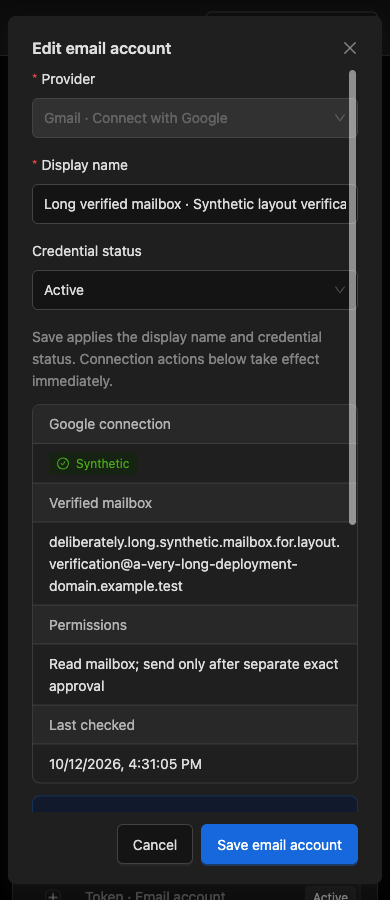
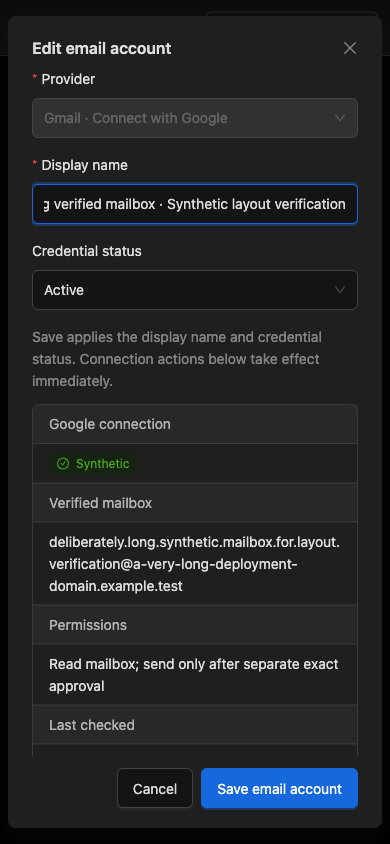
Record Gmail OAuth acceptance and responsive evidence

diff --git a/docs/reports/gmail-oauth-verification-2026-10-12.md b/docs/reports/gmail-oauth-verification-2026-10-12.md
@@ -1,6 +1,6 @@
 # Gmail OAuth migration verification — 12 October 2026
 
-Status: implementation candidate; final exact-source hosted acceptance is pending. Draft [PR #11](https://github.com/trannamtrung1st/agent-core/pull/11) contains the reconciled implementation. Live Gmail UAT is **blocked/deferred**, not passed. No Google application configuration, dedicated mailbox or real-recipient send authorization was supplied. Synthetic consent/read/send evidence does not prove Google consent or delivery. P10/P11 and historical freezes remain unchanged.
+Status: implemented and verified for all required non-live gates at behavior commit `498799fee3b602a77529e627297777e67da5711c`. Draft [PR #11](https://github.com/trannamtrung1st/agent-core/pull/11) contains the reconciled implementation. Live Gmail UAT is **blocked/deferred**, not passed. No Google application configuration, dedicated mailbox or real-recipient send authorization was supplied. Synthetic consent/read/send evidence does not prove Google consent or delivery. P10/P11 and historical freezes remain unchanged.
 
 ## Baseline and scope
 
@@ -10,7 +10,7 @@ Gmail now uses owner Authorization Code + PKCE S256 + offline refresh, verified 
 
 ## Executed local evidence
 
-All commands ran in the repository unless stated otherwise. Frontend reruns explicitly prepend `/Users/trungtran/.nvm/versions/node/v22.18.0/bin` to PATH. Full broad checks below preceded the final main reconciliation; final exact-source hosted evidence will be recorded separately.
+All commands ran in the repository unless stated otherwise. Frontend reruns explicitly prepend `/Users/trungtran/.nvm/versions/node/v22.18.0/bin` to PATH. The initial broad pass preceded main reconciliation. Final rows cover the reconciled source; the exact behavior candidate is `498799fee3b602a77529e627297777e67da5711c`.
 
 | Check | Observed result |
 | --- | --- |
@@ -24,7 +24,10 @@ All commands ran in the repository unless stated otherwise. Frontend reruns expl
 | Final API/selection slice | 13 passed |
 | Custom approval compatibility + durable workflows | 22 passed |
 | Full .NET solution, initial broad pass | Domain 195, Application 1772, Infrastructure 1254, API 556, plugin 4 passed; 21 explicit live opt-in skips |
-| Full frontend, Node 22 / two workers | 116 files, 943 tests passed; final added recovery cases tested separately |
+| Initial full frontend, Node 22 / two workers | 116 files, 943 tests passed |
+| Final full frontend, Node 22 / two workers | 116 files, 945 tests passed, including recovery/storage cases |
+| Final reconciled backend suites | Domain 195 / Application 1801 / Infrastructure 1279 / API 559 / plugin 4 passed: 3838 passed, 21 explicit live opt-in skips. Infrastructure full rerun passed after fixture repair |
+| Model fixture reconciliation + transport diagnostics | 21 passed; required diagnostic source registered without changing assertions |
 | Final focused dialog recovery tests | 6 passed |
 | Reconciled email/transport diagnostics | 72 passed |
 | Reconciled OAuth/Gmail/Custom integration | 75 passed |
@@ -32,7 +35,7 @@ All commands ran in the repository unless stated otherwise. Frontend reruns expl
 | Reconciled Application diagnostics/attention/speech | 46 passed |
 | HTTPS callback + detached Automation runtime | 13 passed |
 | Frontend TypeScript/Vite build | Passed; existing large-bundle and SignalR annotation warnings retained |
-| Affected Playwright journeys | 8 passed, including 1440/768/390/320 Gmail lifecycle/chooser, exact-approved Synthetic send and adjacent Credentials |
+| Final reconciled affected Playwright journeys | 8 passed, including 1440/768/390/320 Gmail lifecycle/chooser, exact-approved Synthetic send and adjacent Credentials |
 | Isolated Compose SQLite/key-ring survival | Passed in `agent-core-gmail-oauth-verification`, port 5380; extended gate preserved connected Synthetic OAuth grant and non-sending check across recreation |
 | EF pending model changes | None; local EF tool 10.0.5 reports older than runtime 10.0.12 |
 | Event-storage monitor tests | 3 passed |
@@ -63,12 +66,16 @@ The detector overlay server timed out; its stop reported no running server. CLI 
 | --- | --- | --- |
 | 1440 × 900 | 640 / 640 / 640 | None |
 | 768 × 900 | 640 / 640 / 640 | None |
-| 390 × 900 | 374 / 374 / 374 | None |
+| 390 × 844 | 374 / 374 / 374 | None |
 | 320 × 900 | 304 / 304 / 304 | None |
 
-Long verified Synthetic address wrapping, semantic status, local scrolling and pinned footer were observed. Mobile buttons retained the shared 40px baseline. Root MCP checked the host health profile as Synthetic, performed actual consent/check/disconnect/reconnect and inspected console/network: zero errors/warnings; relevant connection reads/checks returned 200. Physical touch, screen-reader speech, 200% zoom, performance profiling and real Google UI are not claimed verified.
+Long verified Synthetic address wrapping, semantic status, local scrolling and pinned footer were observed. The exact 390 × 844 mobile probe recorded a 374 × 812 dialog at top 16 / bottom 828, a 40px Save action within the viewport, non-sending access check, disconnect/reconnect and Escape focus recovery. A post-redirect locator expected the original row to remain mounted and timed out; the intended Add email account fallback was then verified. A motion-settling probe matched a hidden modal and timed out; final geometry/screenshot came from the visible named dialog after motion completed. Mobile buttons retained the shared 40px baseline. Root MCP checked the host health profile as Synthetic, performed actual consent/check/disconnect/reconnect and inspected console/network: zero errors/warnings; relevant connection reads/checks returned 200. The final exact-height mobile probe also recorded zero console warnings/errors. Physical touch, screen-reader speech, 200% zoom, performance profiling and real Google UI are not claimed verified.
 
 Before: [existing email editor](assets/email-account/email-edit-1440.png), [existing mobile inventory](assets/email-account/email-admin-390.png), and existing chooser captures. After: [1440](assets/gmail-oauth/connected-1440.png), [768](assets/gmail-oauth/connected-768.png), [390](assets/gmail-oauth/connected-390.png), [320](assets/gmail-oauth/connected-320.png), [narrow action/focus state](assets/gmail-oauth/actions-320.png), [disconnected state](assets/gmail-oauth/disconnected-320.png). DESIGN/PRODUCT and the sanctioned schema-2 sidecar describe observed OAuth presentation; doctor returned no drift findings.
+
+## Exact-source hosted verification
+
+The existing seven-job Synthetic workflow was explicitly dispatched at `498799fee3b602a77529e627297777e67da5711c`: [run 38236219853](https://github.com/trannamtrung1st/agent-core/actions/runs/38236219853). The automatic PR run at `a5e661dd` was superseded and cancelled after the missing model-fixture diagnostics registration was corrected; it is not acceptance evidence. No automatically attached check run appeared for the corrected PR head, so the unchanged workflow was dispatched directly. All seven jobs passed. Hosted backend: Domain 195, Infrastructure 1273, Application 1801 and API 559 passed: 3828 passed and 27 skips (21 live-provider opt-in cases plus six Docker Sandbox availability cases). The six Docker cases passed locally; the separate hosted Compose job passed. Frontend shards: 537 + 408 = 945 tests across 116 files, with both builds passed. Core browser shards: 104 + 104 = 208 passed. The seven sequential acceptance projects passed 16 tests in total. Compose SQLite/key-ring/OAuth-grant recreation passed. The final documentation/evidence follow-up changes no runnable code, tests, migrations or configuration; those sources remain identical to this verified behavior commit.
 
 ## Acceptance mapping
 
@@ -87,9 +94,11 @@ Before: [existing email editor](assets/email-account/email-edit-1440.png), [exis
 | OA-23 | Safe API projections and known-value token checks; callback/named-client query/body logging disabled; diagnostic successor reconciliation passed with safe IDs and redacted provider snapshots |
 | OA-25, OA-26 | Four-width actual interaction/geometry plus explicit chooser/approval; verified sender/Bcc preview separate from connect |
 | OA-27 | Fixed configured HTTPS/loopback origin, same-origin Vite callback exercised; HTTPS callback fixture proves Secure cookie and rejects forwarded-host redirect poisoning. Deployed Real Google redirect remains deferred |
-| OA-28 | Final merged-source hosted jobs pending; no closure claim yet |
+| OA-28 | All seven exact-behavior hosted jobs passed at `498799fe`; full local backend/frontend and affected browser/Compose checks also passed |
 | OA-29, OA-30 | Canonical owners, design sidecar, report/screenshots and independent review/fixes; local links, anchors, fences and complete JSON examples checked |
 | OA-31 | **Blocked/deferred**: no configured real Google application, dedicated mailbox/recipient opt-in or delivery evidence |
+
+Disposable API/Vite hosts, temporary browser config and the isolated Compose volume were cleaned up after verification. No user process, catalog or database was reset. Known Synthetic access/refresh values and Bearer headers were absent from the final runtime log.
 
 ## Failure and fallback ledger
 
@@ -100,5 +109,5 @@ Before: [existing email editor](assets/email-account/email-edit-1440.png), [exis
 - Browser probes exposed a decorative icon accessible-name mismatch, lost modal focus, inaccessible/hidden-cloned filter controls and a pending-name restoration race. Fixed and checked with actual interaction plus repeatable tests. Some probe resets/request URL inputs also timed out or failed in the automation harness; corrected probes are recorded separately from passing product outcomes.
 - The Impeccable overlay launcher timed out; narrow detector/live DOM evidence was used and the failed overlay was not represented as successful.
 - A detached direct-read regression initially exposed an incorrect assumption about the flat Core error envelope; the trusted top-level classifier was corrected and all 11 runtime cases passed. Mailbox body content cannot set Run outcomes.
-- The first reconciled full backend run exposed two isolated model-catalog fixture containers missing the new main IDiagnosticIdSource dependency. That dependency was registered in the fixtures; production diagnostics and capability assertions remain unchanged. This is reconciliation of the newer diagnostics, not an OAuth transport failure.
+- The first reconciled full backend run exposed two isolated model-catalog fixture containers missing the new main IDiagnosticIdSource dependency. That dependency was registered in the fixtures; production diagnostics and capability assertions remain unchanged. The focused 21-case slice and full 1279-test Infrastructure rerun passed; the original failed attempt remains recorded. This is reconciliation of the newer diagnostics, not an OAuth transport failure.
 - Live Gmail and recipient delivery remain deferred. No real email was sent, no provider policy was bypassed and no existing database/credential catalog was reset.

diff --git a/docs/18-implementation-plan.md b/docs/18-implementation-plan.md
@@ -575,4 +575,4 @@ Review corrections and all required non-deferred gates are complete on `d69e0622
 
 This bounded successor replaces only Gmail App Password/IMAP/SMTP with owner Authorization Code + PKCE + offline refresh and account-scoped Gmail REST. Custom TLS/password, Credential IDs/bindings, immutable Core drafts/claims, exact send approval and existing Session/Run authority remain. No P10/P11 opening or historical freeze is implied.
 
-Order: baseline/feasibility → domain/migration CAS → OAuth security/lifecycle → Gmail REST/MIME/send → Synthetic owner UI/chooser → bounded Impeccable/design/doc consistency → full exact-source backend/frontend/browser/Compose/hosted verification. Each stage requires its focused evidence before acceptance. Live dedicated Gmail consent/restart/delivery/revocation is explicitly separate and may be deferred for missing operator app setup/authorization. The [verification report](reports/gmail-oauth-verification-2026-10-12.md) records current candidate status; do not mark this slice closed before required non-live jobs pass.
+Order: baseline/feasibility → domain/migration CAS → OAuth security/lifecycle → Gmail REST/MIME/send → Synthetic owner UI/chooser → bounded Impeccable/design/doc consistency → full exact-source backend/frontend/browser/Compose/hosted verification. Each stage requires its focused evidence before acceptance. Live dedicated Gmail consent/restart/delivery/revocation is explicitly separate and may be deferred for missing operator app setup/authorization. The required non-live gates are complete on behavior commit `498799fe`: all seven [exact-source hosted jobs](https://github.com/trannamtrung1st/agent-core/actions/runs/38236219853) passed, alongside local regression/runtime, design and documentation checks. The [verification report](reports/gmail-oauth-verification-2026-10-12.md) records counts, scenarios, corrected failures and deferred live Google consent/delivery. This accepts the non-live scope without changing historical freezes or P10/P11 status.

diff --git a/TODO.md b/TODO.md
@@ -1469,5 +1469,5 @@ Implementation extends the existing Instance owners and Harness policy record wi
 
 ## Gmail OAuth migration — 2026-10-12
 
-- Implemented candidate: per-account offline Google OAuth, REST messages, protected secret CAS, forward migration and owner lifecycle; Custom transport and exact send approval retained.
-- Full acceptance remains subject to the [evidence ledger](docs/reports/gmail-oauth-verification-2026-10-12.md). Real Google consent/restart/recipient delivery requires operator setup and explicit dedicated-mailbox UAT authorization; it remains deferred.
+- Implemented and verified for the non-live scope: per-account offline Google OAuth, REST messages, protected secret CAS, forward migration and owner lifecycle; Custom transport and exact send approval retained. All seven [exact-behavior hosted jobs](https://github.com/trannamtrung1st/agent-core/actions/runs/38236219853) passed on `498799fe`.
+- The [evidence ledger](docs/reports/gmail-oauth-verification-2026-10-12.md) records full local/hosted non-live acceptance. Real Google consent/restart/recipient delivery requires operator setup and explicit dedicated-mailbox UAT authorization; it remains deferred.
